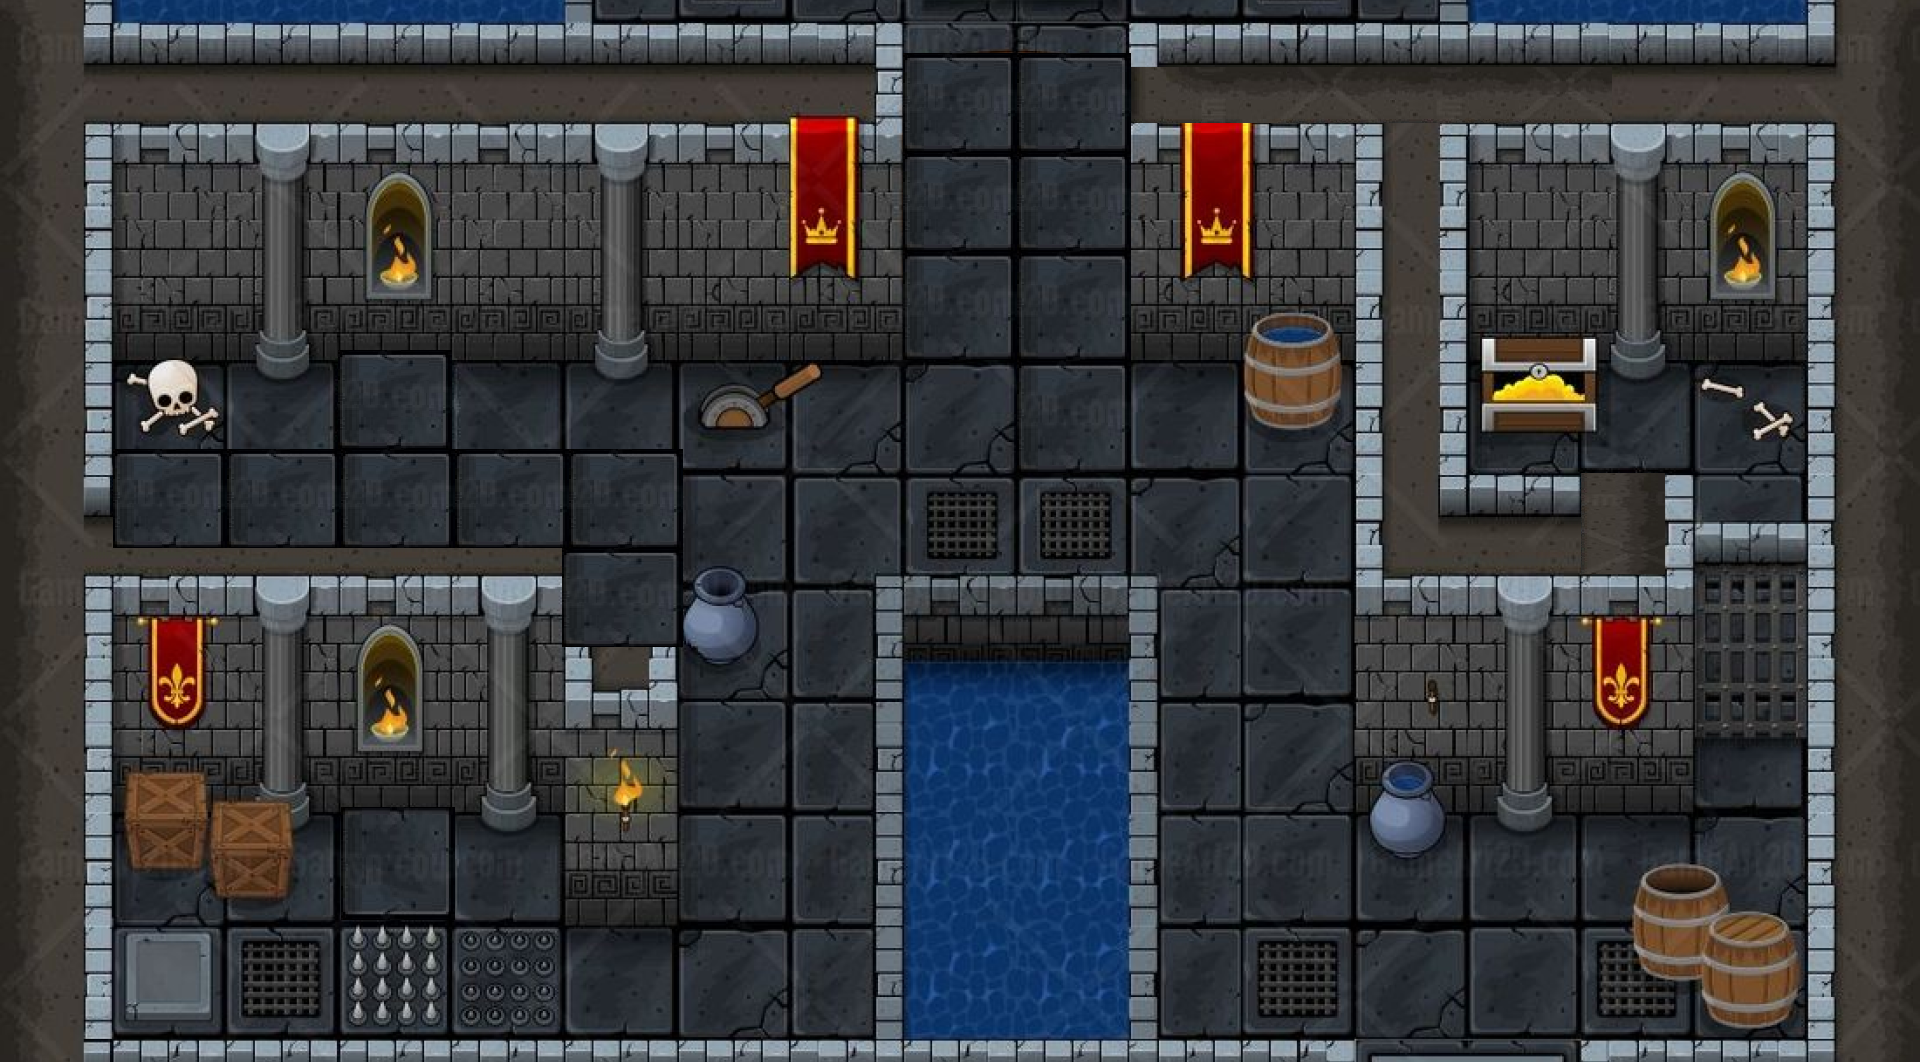
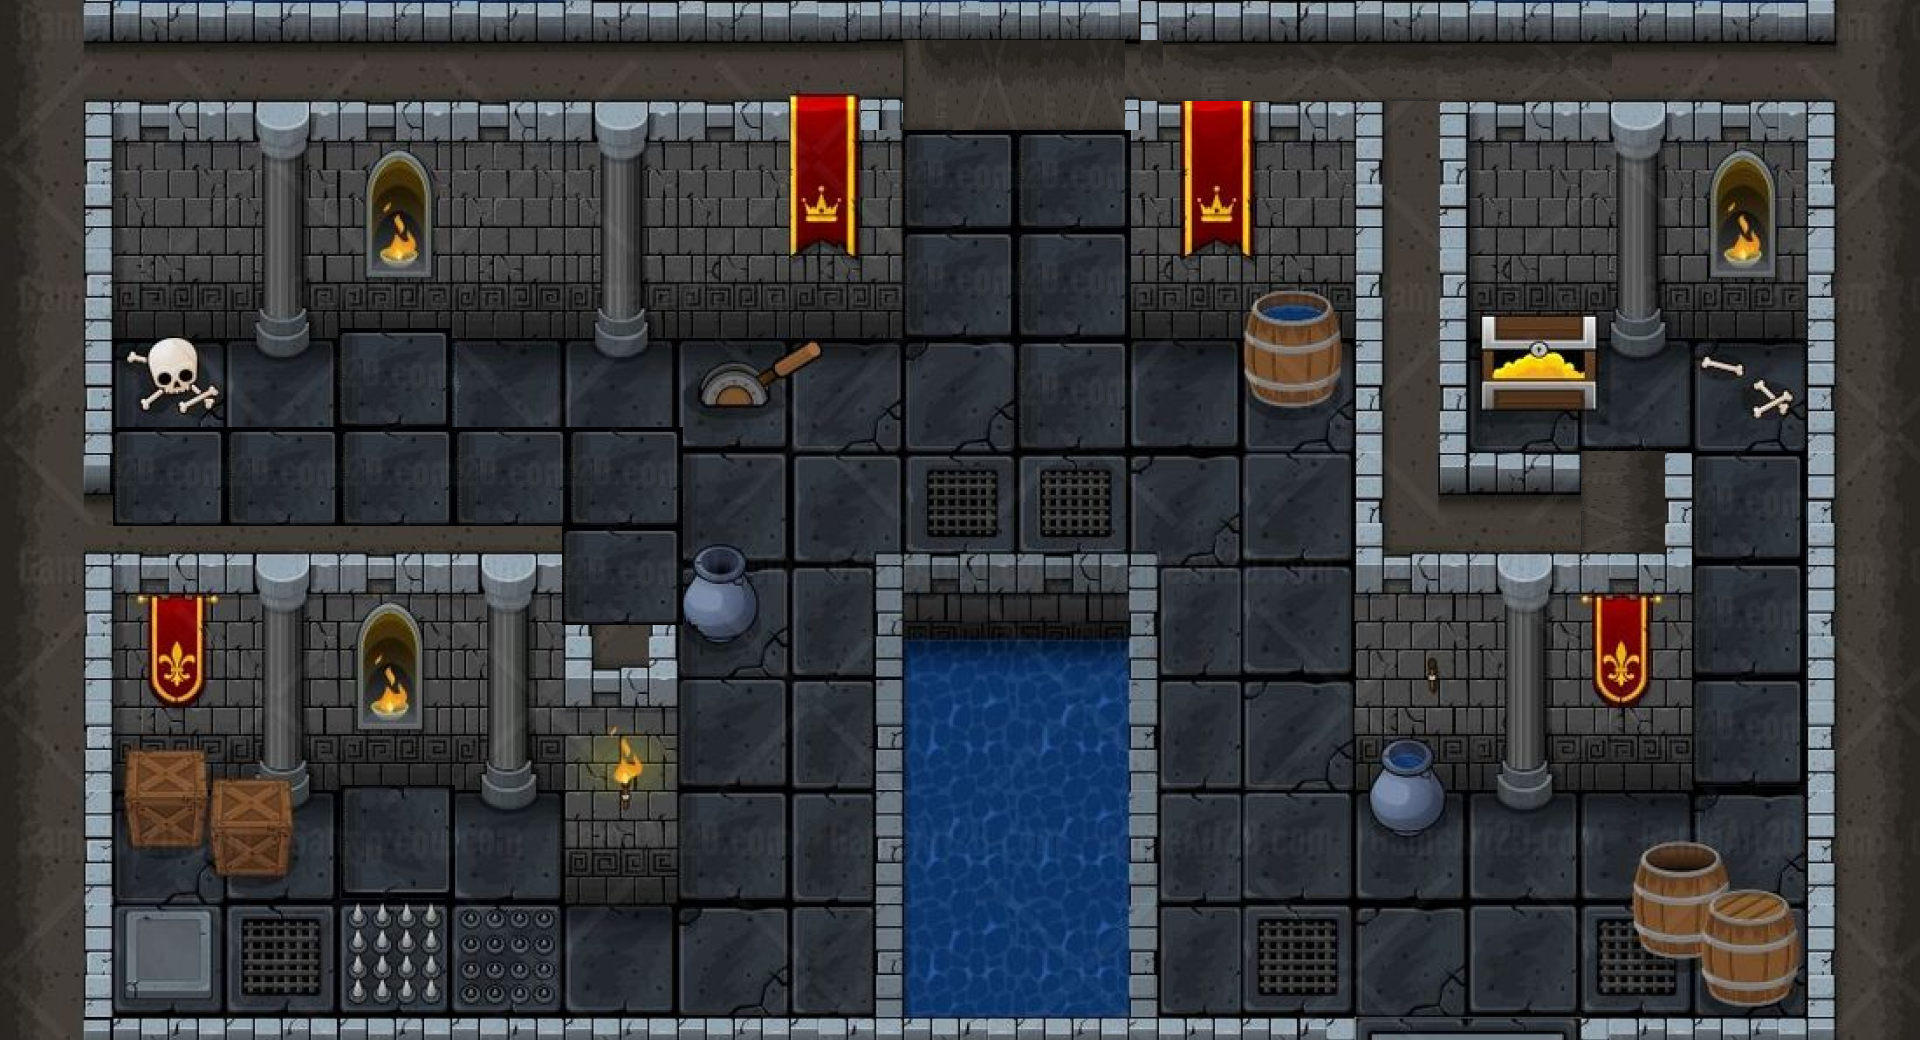
canvas reset added :+1:

Changed region(s): [[0.0312, 0.0, 0.9688, 0.9538], [0.5938, 0.8, 0.625, 0.8308], [0.0312, 0.8923, 0.0625, 0.9231]]

diff --git a/src/GameCanvas.java b/src/GameCanvas.java
@@ -13,6 +13,7 @@ public class GameCanvas extends Canvas implements KeyListener, Runnable {
     Player player;
     Enemy enemy;
     ArrayList<Enemy> enemies = new ArrayList<Enemy>();
+    Thread thread;
 
     public GameCanvas() {
         background = new Background(this);
@@ -21,14 +22,14 @@ public class GameCanvas extends Canvas implements KeyListener, Runnable {
         objects.add(new Tiles(this));
         player = new Player(this, 0, 0, 8, tiles);
         objects.add(player);
-        enemies.add(new Enemy(this, 2, 3, tiles, new Point(2, 2), new Point(2, 7), "LEFT", 7));
-        enemies.add(new Enemy(this, 5, 10, tiles, new Point(5, 6), new Point(5, 19), "RIGHT", 9));
-        enemies.add(new Enemy(this, 2, 11, tiles, new Point(0, 11), new Point(5, 11), "UP", 6));
+        enemies.add(new Enemy(this, 0, 10, tiles, new Point(0, 0), new Point(0, tiles.tiles[0].length), "LEFT", 5));
+        enemies.add(new Enemy(this, 6, 10, tiles, new Point(6, 0), new Point(6, 12), "RIGHT", 7));
+        enemies.add(new Enemy(this, 2, 9, tiles, new Point(0, 9), new Point(7, 9), "UP", 5));
         objects.addAll(enemies);
         addKeyListener(this);
 //        setBackground(Color.BLACK);
         audioManager.play("src/resources/sounds/diablo.wav", true);
-        Thread thread = new Thread(this);
+        thread = new Thread(this);
         thread.start();
     }
 
@@ -54,10 +55,13 @@ public class GameCanvas extends Canvas implements KeyListener, Runnable {
 
     @Override
     public void keyPressed(KeyEvent e) {
-        if (player.getState() == Player.State.DYING)        // Freeze movements when player is dead ie, game over
+        if (player.getState() == Player.State.DYING) {      // Freeze movements when player is dead ie, game over
             if (e.getKeyCode() == KeyEvent.VK_ESCAPE)
                 System.exit(0);
+            else if (e.getKeyCode() == KeyEvent.VK_ENTER)
+                reset();
             else return;
+        }
         switch (e.getKeyCode()) {
             case KeyEvent.VK_ESCAPE -> System.exit(0);
             case KeyEvent.VK_A -> {
@@ -75,10 +79,6 @@ public class GameCanvas extends Canvas implements KeyListener, Runnable {
             case KeyEvent.VK_S -> {
                 player.setState(Player.State.RUNNING);
                 player.setDirection(Player.Direction.DOWN);
-            }
-            case KeyEvent.VK_SPACE -> {
-                player.setState(Player.State.JUMPING);
-                player.isSpacePressed = true;
             }
         }
 //        System.out.println("Key pressed: " + e.getKeyCode());
@@ -130,5 +130,23 @@ public class GameCanvas extends Canvas implements KeyListener, Runnable {
     public void gameOver() {
 //        audioManager.play("src/resources/sounds/gameover.wav", false);
         objects.add(new GameOver(this));
+    }
+
+    public void reset() {
+        thread.interrupt();
+        objects.clear();
+        enemies.clear();
+        background = new Background(this);
+        objects.add(background);
+        Tiles tiles = new Tiles(this);
+        objects.add(new Tiles(this));
+        player = new Player(this, 0, 0, 8, tiles);
+        objects.add(player);
+        enemies.add(new Enemy(this, 0, 10, tiles, new Point(0, 0), new Point(0, tiles.tiles[0].length), "LEFT", 5));
+        enemies.add(new Enemy(this, 6, 10, tiles, new Point(6, 0), new Point(6, 12), "RIGHT", 7));
+        enemies.add(new Enemy(this, 2, 9, tiles, new Point(0, 9), new Point(7, 9), "UP", 5));
+        objects.addAll(enemies);
+        Thread thread = new Thread(this);
+        thread.start();
     }
 }

diff --git a/src/Player.java b/src/Player.java
@@ -5,13 +5,11 @@ import java.util.Objects;
 public class Player implements VisibleObjects {
     private final Tiles tiles;
     private final int speed;
-    public boolean isSpacePressed = false;
     GameCanvas canvas;
     Image image;
-    Sprite runningSprite = new Sprite("player/running", 6);
-    Sprite jumpingSprite = new Sprite("player/jumping", 8);
-    Sprite idleSprite = new Sprite("player/idle", 3);
-    Sprite dyingSprite = new Sprite("player/dying", 6);
+    Sprite runningSprite = new Sprite("player/running", 5);
+    Sprite idleSprite = new Sprite("player/idle", 8);
+    Sprite dyingSprite = new Sprite("player/dying", 9);
     Dimension size = Toolkit.getDefaultToolkit().getScreenSize();
     int screenHeight = (int) size.getHeight();
     int screenWidth = (int) size.getWidth();
@@ -29,7 +27,6 @@ public class Player implements VisibleObjects {
         this.y = i * y_offset;
         this.speed = speed;
         this.tiles = tiles;
-        speed = 5;
         image = new ImageIcon(Objects.requireNonNull(getClass().getResource("resources/sprites/player/idle/00.png"))).getImage();
         playerBounds.setBounds(x, y, image.getWidth(null), image.getHeight(null));
         for (int[] tr : tiles.tiles) {
@@ -78,7 +75,7 @@ public class Player implements VisibleObjects {
         int j = (x * tiles.tiles[0].length) / screenWidth;
         int x_offset = (screenWidth / tiles.tiles[0].length);
         int y_offset = (screenHeight / tiles.tiles.length);
-        Rectangle blk = null;
+        Rectangle blk;
         System.out.println("i: " + i + " j: " + j + " x:" + rect.getX() + " y:" + rect.getY() + " xmax:" + rect.getMaxX() + " ymax:" + rect.getMaxY());
         if (i < 0 || i >= tiles.tiles.length || j < 0 || j >= tiles.tiles[0].length) {
             return false;
@@ -111,8 +108,6 @@ public class Player implements VisibleObjects {
             } catch (InterruptedException e) {
                 e.printStackTrace();
             }
-        } else if (state == State.JUMPING) {
-            image = jumpingSprite.getNextFrame();
         } else if (state == State.RUNNING) {
             image = runningSprite.getNextFrame();
         } else {
@@ -129,11 +124,7 @@ public class Player implements VisibleObjects {
     }
 
     public void tick() {
-        // Todo: implement Gravity
-//        while (state != State.JUMPING && canMove(x, y + image.getHeight(canvas) + speed)) {     // x, y+imgHt+speed
-//            y += speed;
-//            canvas.draw();
-//        }
+        // Todo: Anything random left to render
     }
 
     enum Direction {
@@ -141,6 +132,6 @@ public class Player implements VisibleObjects {
     }
 
     enum State {
-        IDLE, RUNNING, JUMPING, DYING
+        IDLE, RUNNING, DYING
     }
 }

diff --git a/src/Tiles.java b/src/Tiles.java
@@ -29,17 +29,17 @@ public class Tiles implements VisibleObjects {
 
     @Override
     public void drawObject(Graphics2D g) {
-        int x_offset = canvas.getWidth() / tiles[0].length;
-        int y_offset = canvas.getHeight() / tiles.length;
-        for (int i = 0; i < tiles.length; i++) {
-            for (int j = 0; j < tiles[i].length; j++) {
-                if (tiles[i][j] == 1) {
-                    g.setColor(Color.BLACK);
-                    g.fillRect(j * x_offset, i * y_offset, x_offset, y_offset);
-                    g.setColor(Color.RED);
-                    g.drawRect(j * x_offset, i * y_offset, x_offset, y_offset);
-                }
-            }
-        }
+//        int x_offset = canvas.getWidth() / tiles[0].length;
+//        int y_offset = canvas.getHeight() / tiles.length;
+//        for (int i = 0; i < tiles.length; i++) {
+//            for (int j = 0; j < tiles[i].length; j++) {
+//                if (tiles[i][j] == 1) {
+//                    g.setColor(Color.BLACK);
+//                    g.fillRect(j * x_offset, i * y_offset, x_offset, y_offset);
+//                    g.setColor(Color.RED);
+//                    g.drawRect(j * x_offset, i * y_offset, x_offset, y_offset);
+//                }
+//            }
+//        }
     }
 }

diff --git a/src/Enemy.java b/src/Enemy.java
@@ -3,7 +3,6 @@ import java.awt.*;
 import java.util.Objects;
 
 public class Enemy implements VisibleObjects {
-
     private final int speed;
     int x, y, x_offset, y_offset;
     GameCanvas canvas;
@@ -21,7 +20,7 @@ public class Enemy implements VisibleObjects {
     public Enemy(GameCanvas canvas, int i, int j, Tiles tiles, Point rangeMin, Point rangeMax, String dir, int speed) {
         this.canvas = canvas;
         this.speed = speed;
-        enemy = new ImageIcon(Objects.requireNonNull(getClass().getResource("resources/sprites/enemy/pink/running/00.png"))).getImage();
+        enemy = new ImageIcon(Objects.requireNonNull(getClass().getResource("resources/sprites/enemy/cop/running/00.png"))).getImage();
         this.tiles = tiles;
         this.direction = Direction.valueOf(dir);
         x_offset = (screenWidth / tiles.tiles[0].length);
